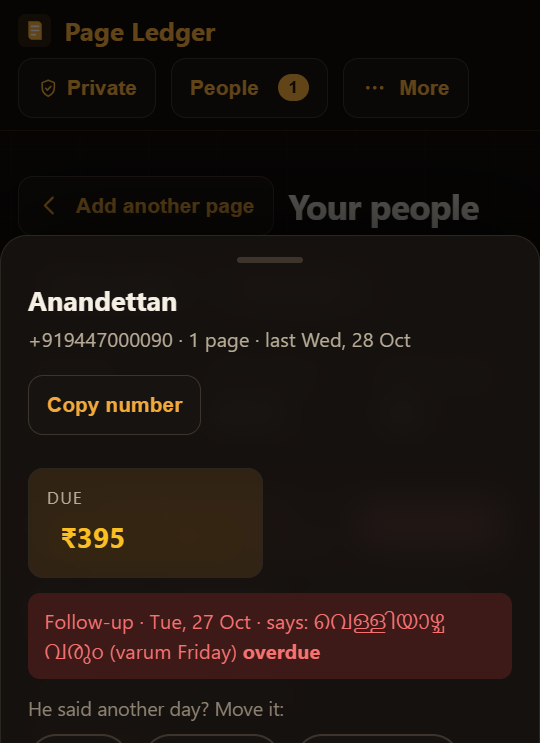
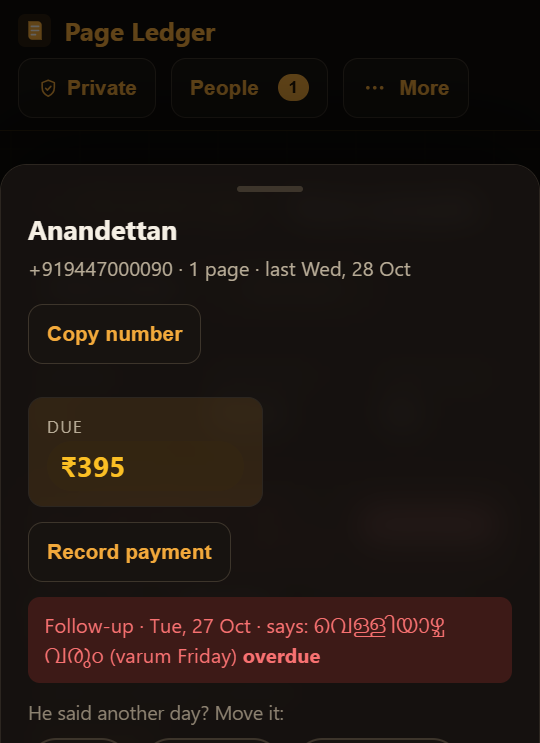
Record payment: the loop's true end - settle due lines oldest-first, full settlement closes the follow-up, Undo restores; history shows in+due on one line; demo script + README updated

diff --git a/js/app.js b/js/app.js
@@ -1563,6 +1563,24 @@ function openPersonSheet(key, triggerEl = null) {
   $("#person-money").innerHTML =
     moneyBits || `<div class="person-money__item"><span>Amounts</span><strong class="money money--none">none yet</strong></div>`;
 
+  // the pay row appears only when something is actually owed
+  const payRow = $("#person-pay");
+  if (payRow) {
+    if (p.due > 0) {
+      payRow.hidden = false;
+      const form = payRow.querySelector(".person-pay__form");
+      const openBtn = $("#btn-pay-open");
+      if (form) form.hidden = true;
+      if (openBtn) openBtn.hidden = false;
+      const full = $("#pay-full-amt");
+      if (full) full.textContent = ppl.fmtRupees(p.due);
+      const amt = $("#person-pay-amt");
+      if (amt) amt.value = "";
+    } else {
+      payRow.hidden = true;
+    }
+  }
+
   const f = p.followUp;
   if (f) {
     const overdue = f.date < ppl.localToday();
@@ -1594,11 +1612,10 @@ function openPersonSheet(key, triggerEl = null) {
 
   const rows = (p.history ?? [])
     .map((h) => {
-      const amt = h.paid
-        ? `<span class="ph__amt money money--in">₹${ppl.fmtRupees(h.paid)} in</span>`
-        : h.due
-          ? `<span class="ph__amt money money--due">₹${ppl.fmtRupees(h.due)} due</span>`
-          : "";
+      const amt = [
+        h.paid ? `<span class="ph__amt money money--in">₹${ppl.fmtRupees(h.paid)} in</span>` : "",
+        h.due ? `<span class="ph__amt money money--due">₹${ppl.fmtRupees(h.due)} due</span>` : "",
+      ].filter(Boolean).join(" ");
       return `<li class="ph__row"><span class="ph__d">${escapeHTML(niceDay(h.d))}</span><span class="ph__note">${escapeHTML(h.note || "")}</span>${amt}</li>`;
     })
     .join("");
@@ -1678,6 +1695,73 @@ async function moveFollowUpTo(f, newDate) {
       }
     } catch {}
   });
+}
+
+const round2 = (x) => Math.round(x * 100) / 100;
+
+// The owner records money received - the loop's true end. Due lines are
+// settled oldest first, the way a paper ledger gets crossed out. A full
+// settlement also closes the open follow-up: nothing left to chase.
+function buildPaymentAllocation(p, amount) {
+  const rows = (p.history ?? [])
+    .filter((h) => h.due > 0 && h.pageId && h.rowId)
+    .sort((a, b) => (a.d < b.d ? -1 : a.d > b.d ? 1 : 0));
+  let left = round2(amount);
+  const allocations = [];
+  const undo = [];
+  for (const h of rows) {
+    if (left <= 0) break;
+    const take = Math.min(left, h.due);
+    allocations.push({
+      pageId: h.pageId,
+      rowId: h.rowId,
+      amountPaid: round2((h.paid || 0) + take),
+      amountDue: round2(h.due - take),
+    });
+    undo.push({ pageId: h.pageId, rowId: h.rowId, amountPaid: round2(h.paid || 0), amountDue: round2(h.due) });
+    left = round2(left - take);
+  }
+  const applied = round2(amount - Math.max(left, 0));
+  if (p.followUp?.rowId && applied >= p.due) {
+    const f = p.followUp;
+    const hit = allocations.find((a) => a.rowId === f.rowId && a.pageId === f.pageId);
+    if (hit) hit.followUpDone = true;
+    else allocations.push({ pageId: f.pageId, rowId: f.rowId, followUpDone: true });
+    undo.push({ pageId: f.pageId, rowId: f.rowId, followUpDone: false });
+  }
+  return { allocations, undo, applied };
+}
+
+// One honest write per row: the amounts change, the panel re-renders on fresh
+// data, and the previous numbers stay one Undo tap away.
+async function recordPaymentFor(amount) {
+  const p = panelPerson;
+  if (!p || !(amount > 0)) return;
+  const key = p.key;
+  const dueBefore = p.due;
+  const { allocations, undo, applied } = buildPaymentAllocation(p, amount);
+  if (!allocations.length || applied <= 0) return;
+  try {
+    await auth().recordPayment(allocations);
+  } catch {
+    window.alert("The payment could not be recorded. Try again.");
+    return;
+  }
+  await loadPeople();
+  if (key && !$("#sheet-person").hidden) openPersonSheet(key, personReturnFocus);
+  const settled = applied >= dueBefore;
+  showUndo(
+    settled ? `Settled - ₹${ppl.fmtRupees(applied)} recorded` : `Recorded ₹${ppl.fmtRupees(applied)}`,
+    async () => {
+      try {
+        await auth().recordPayment(undo);
+        await loadPeople();
+        if (key && !$("#sheet-person").hidden && panelPerson?.key === key) {
+          openPersonSheet(key, personReturnFocus);
+        }
+      } catch {}
+    }
+  );
 }
 
 function onPeopleAction(e) {
@@ -2413,6 +2497,35 @@ function wire() {
     const v = $("#person-move-date").value;
     if (!f?.rowId || !v) return;
     await moveFollowUpTo(f, v);
+  });
+
+  // record payment: money received, in the owner's own hand
+  $("#btn-pay-open").addEventListener("click", () => {
+    $("#person-pay .person-pay__form").hidden = false;
+    $("#btn-pay-open").hidden = true;
+    $("#person-pay-amt").focus({ preventScroll: true });
+  });
+  $("#btn-pay-full").addEventListener("click", () => {
+    const p = panelPerson;
+    if (!p) return;
+    $("#person-pay-amt").value = p.due;
+    $("#btn-pay-save").focus({ preventScroll: true });
+  });
+  $("#person-pay-amt").addEventListener("keydown", (e) => {
+    if (e.key === "Enter") {
+      e.preventDefault();
+      $("#btn-pay-save").click();
+    }
+  });
+  $("#btn-pay-save").addEventListener("click", async () => {
+    const p = panelPerson;
+    if (!p) return;
+    const v = round2(parseFloat($("#person-pay-amt").value));
+    if (!(v > 0)) {
+      $("#person-pay-amt").focus();
+      return;
+    }
+    await recordPaymentFor(Math.min(v, p.due));
   });
 
   // the appbar gains depth once content scrolls beneath it

diff --git a/js/supabase.js b/js/supabase.js
@@ -247,6 +247,30 @@ export async function setFollowUpDate(rowId, date) {
   return { ok: true };
 }
 
+// Records money received. Each allocation carries the ABSOLUTE new amounts
+// for one row (the caller computes them), plus an optional follow-up mark -
+// a settled person has nothing left to chase.
+// allocations: [{ pageId, rowId, amountPaid?, amountDue?, followUpDone? }]
+export async function recordPayment(allocations) {
+  await withFreshToken();
+  if (!session?.access) throw new Error("Please sign in first.");
+  for (const a of allocations) {
+    const body = {};
+    if (a.amountPaid !== undefined) body.amount_paid = a.amountPaid;
+    if (a.amountDue !== undefined) body.amount_due = a.amountDue;
+    if (a.followUpDone !== undefined) body.follow_up_done = !!a.followUpDone;
+    if (!Object.keys(body).length) continue;
+    const { res } = await call(`/rest/v1/page_rows?id=eq.${encodeURIComponent(a.rowId)}`, {
+      method: "PATCH",
+      auth: true,
+      extraHeaders: { Prefer: "return=minimal" },
+      body,
+    });
+    if (!res.ok) throw new Error(`Could not record the payment (${res.status}). Try again.`);
+  }
+  return { ok: true };
+}
+
 // Removes one page and its lines. RLS scopes both tables to the signed-in
 // owner, so a crafted id can only ever delete the owner's own page.
 export async function deletePage(pageId) {

diff --git a/index.html b/index.html
@@ -635,6 +635,17 @@
       <p class="sheet__sub" id="person-meta"></p>
       <button id="btn-copy-phone" class="btn btn--ghost btn--small person-copy" type="button" hidden>Copy number</button>
       <div class="person-money" id="person-money"></div>
+      <div id="person-pay" class="person-pay" hidden>
+        <button id="btn-pay-open" class="btn btn--ghost btn--small" type="button">Record payment</button>
+        <span class="person-pay__form" hidden>
+          <label class="person-pay__amount" for="person-pay-amt">
+            <span aria-hidden="true">₹</span>
+            <input type="number" id="person-pay-amt" min="1" step="any" inputmode="decimal" aria-label="Amount received" placeholder="Amount" />
+          </label>
+          <button id="btn-pay-full" class="pill person-move__btn" type="button">Full ₹<span id="pay-full-amt">0</span></button>
+          <button id="btn-pay-save" class="btn btn--primary btn--small" type="button">Save</button>
+        </span>
+      </div>
       <div id="person-follow"></div>
       <div id="person-move" class="person-move" hidden>
         <span class="person-move__label">He said another day? Move it:</span>

diff --git a/js/demo-store.js b/js/demo-store.js
@@ -236,6 +236,24 @@ export async function setFollowUpDate(pageId, rowId, date) {
   return { ok: true, persisted };
 }
 
+// Records money received, in the owner's own hand. Each allocation carries the
+// ABSOLUTE new amounts for one row (the caller computes them), plus an
+// optional follow-up mark - a settled person has nothing left to chase.
+// allocations: [{ pageId, rowId, amountPaid?, amountDue?, followUpDone? }]
+export async function recordPayment(allocations) {
+  const store = read();
+  for (const a of allocations) {
+    const page = store.pages.find((p) => p.id === a.pageId);
+    const row = page?.page_rows.find((r) => r.id === a.rowId);
+    if (!row) continue;
+    if (a.amountPaid !== undefined) row.amount_paid = a.amountPaid;
+    if (a.amountDue !== undefined) row.amount_due = a.amountDue;
+    if (a.followUpDone !== undefined) row.follow_up_done = !!a.followUpDone;
+  }
+  const persisted = persist(store);
+  return { ok: true, persisted };
+}
+
 // Removes one saved page (and its lines) from this browser.
 export async function deletePage(pageId) {
   const store = read();

diff --git a/css/styles.css b/css/styles.css
@@ -2874,6 +2874,40 @@ body.story-open .coach__tip { display: none; }
   color-scheme: dark;
 }
 
+/* record payment: the loop's true end, in the owner's own hand */
+.person-pay {
+  margin: 10px 0 2px;
+  display: grid;
+  gap: 8px;
+  justify-items: start;
+}
+.person-pay__form {
+  display: flex;
+  flex-wrap: wrap;
+  gap: 8px;
+  align-items: center;
+}
+.person-pay__amount {
+  display: inline-flex;
+  align-items: center;
+  gap: 4px;
+  background: var(--surface);
+  border: 1px solid var(--line-strong);
+  border-radius: var(--radius-sm);
+  padding: 6px 10px;
+}
+.person-pay__amount > span { color: var(--ink-faint); font-weight: 700; }
+.person-pay__amount input {
+  border: 0;
+  background: transparent;
+  color: var(--ink);
+  font: inherit;
+  font-size: 14px;
+  width: 92px;
+  color-scheme: dark;
+}
+.person-pay__amount:focus-within { box-shadow: var(--focus); }
+
 /* the More menu gets honest section labels */
 .more-group {
   color: var(--ink-faint);

diff --git a/js/people.js b/js/people.js
@@ -95,7 +95,7 @@ export function buildPeople(pages) {
       if (d > p.lastOn) p.lastOn = d;
       if (due > 0 && d > p.lastDueOn) p.lastDueOn = d;
       if (paid || due || (r.note ?? "").trim()) {
-        p.history.push({ d, note: (r.note ?? "").trim(), paid, due });
+        p.history.push({ d, note: (r.note ?? "").trim(), paid, due, pageId: page.id, rowId: r.id ?? null });
       }
       if (r.follow_up_confirmed && r.follow_up_date && !r.follow_up_done) {
         p.followUps.push({

diff --git a/README.md b/README.md
@@ -39,6 +39,7 @@ The full walk (all five story scenes, review, ask, More menu, own-page, mobile s
 - **Pre-submission polish done** - trust shield in the top bar ("where do my pages live", one tap, any screen); overdue strip on People (red, "N promises were due before today", one tap shows them, Done clears it); same-photo cache (the identical read never runs twice in a session); save haptic; sample fixtures bake day-0 demo state (one overdue regular per fresh demo) so "Call today" is never empty
 - **Redesign done (Oct 28)** - the app now opens with a five-scene story (a dedication to the dukandars with the amber shop lamp, the notebook, the lost promise, the idea, the three trust rules; "Skip to demo" one tap away; plays once per browser; reduced-motion users get a plain page), then a clean landing ("Your notebook, turned into a CRM."), a demo picker with the five sample pages as large cards, the check screen ("Confirm and open my CRM"), and a CRM dashboard: three big stat cards (To call / Total due / Collected), the overdue strip, search + filter chips, a per-person side panel with history and Call/WhatsApp templates, "Ask my ledger", and a Demo pages / My pages switch that keeps sample reads and the owner's own photographs clearly separated. Dark premium identity throughout: deep ink, one amber accent (the shop lamp), glass panels with 1px borders, a faint living grid, glow reserved for the primary button. Admin controls (privacy, erase demo, sign out, how it was built) live in a More menu.
 - **CRM + data ownership pass done (Oct 29)** - the three stat cards are now real filters (tap "To call" to see only today's calls, tap again to release; `aria-pressed` + keyboard); person cards get initial discs (amber for today-calls), a chevron tap cue, and red strips for overdue follow-ups (amber stays due-today, in the cards and the panel); filter chips show live counts; a sort row re-orders the Everyone list (Due first / Name A–Z / Recent - Call today stays urgency-ordered); the person panel gains a one-tap "Copy number"; the More menu gains "Download all lines as CSV" (every line, kept/struck/excluded labeled, UTF-8 BOM so Excel opens Malayalam/Hindi correctly), "Download a backup" + "Restore a backup…" (demo mode only - a plain JSON file, restore merges by page id and never deletes), and "Replay the intro"; the favicon and PWA icons are amber now (teal leftover removed), the app is installable (`manifest.json` + icons), and social share cards work (`og-image.png` + Open Graph/Twitter tags); unknown addresses get a real 404 page.
+- **Closing-the-loop pass done (Oct 29)** - the person panel now records money received ("Record payment" → amount or one-tap Full → Save): due lines settle oldest first the way a paper ledger gets crossed out, a full settlement also closes the open follow-up, the Collected stat moves up, and Undo brings the previous numbers back; the panel also moves a follow-up ("He said another day? Move it" → Today / Tomorrow / pick a date, confirmed because the owner set it, Undo restores); history lines show what came in AND what is still due on the same line; the More menu groups the owner's data tools under a "Your data" label; the appbar gains depth on scroll, scrollbars go thin and dark, and the empty state gets a drawn notebook glyph.
 - Demo path needs **no Meta API key** and no Supabase project: mock mode serves fixtures (zero credits); live mode is wired and ready for a key
 
 ## Next (after the hackathon — not built yet, listed honestly)

diff --git a/docs/DEMO-SCRIPT.md b/docs/DEMO-SCRIPT.md
@@ -81,7 +81,13 @@ without you."
    tap **Tomorrow** (or pick a date). Say:
 > "This is the part after the phone call — he says Friday, you tap Friday.
 > The app remembers, and Undo brings yesterday's date back."
-6. Point at the **Demo pages / My pages** switch:
+6. Then the ending that matters: **Record payment** → **Full ₹515** → **Save**.
+   Say:
+> "And when he actually pays — one tap. The money moves from Due to Collected,
+> the follow-up closes itself, and Undo brings the ledger back if your finger
+> slipped."
+7. Undo it back (keep the overdue demo state), then point at the
+   **Demo pages / My pages** switch:
 > "Sample pages and your own photographs stay clearly separated."
 
 ## 2:00 – 2:25 · Ask my ledger (grounded AI)
